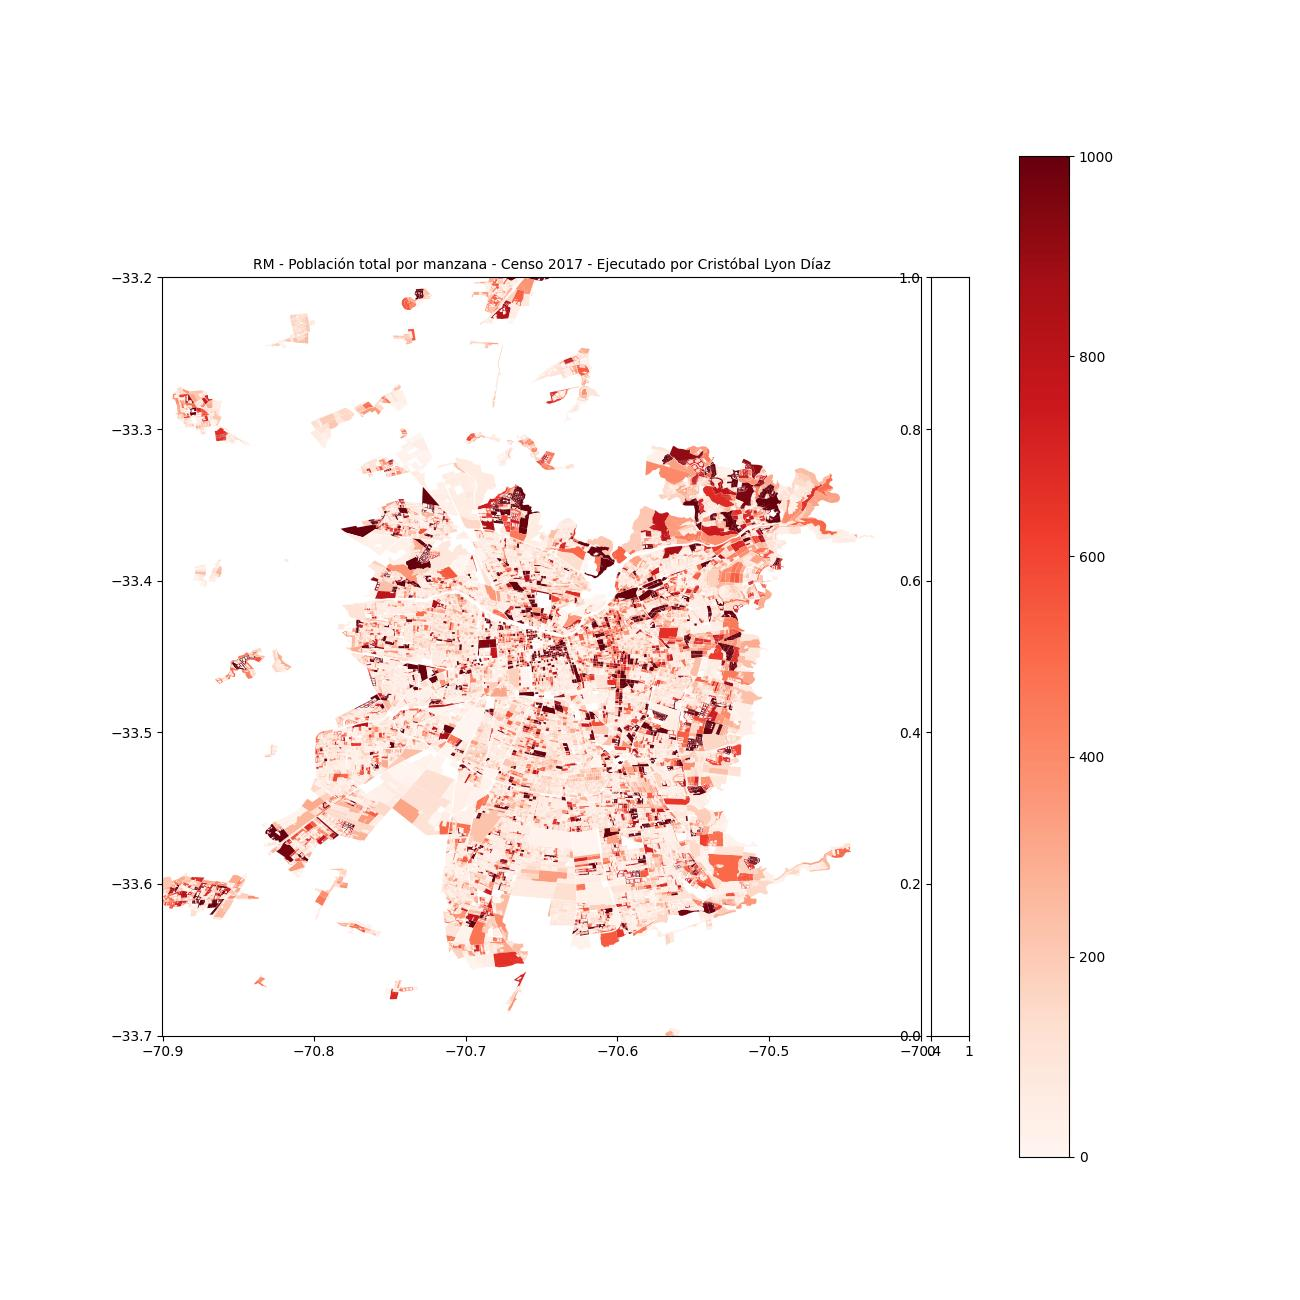
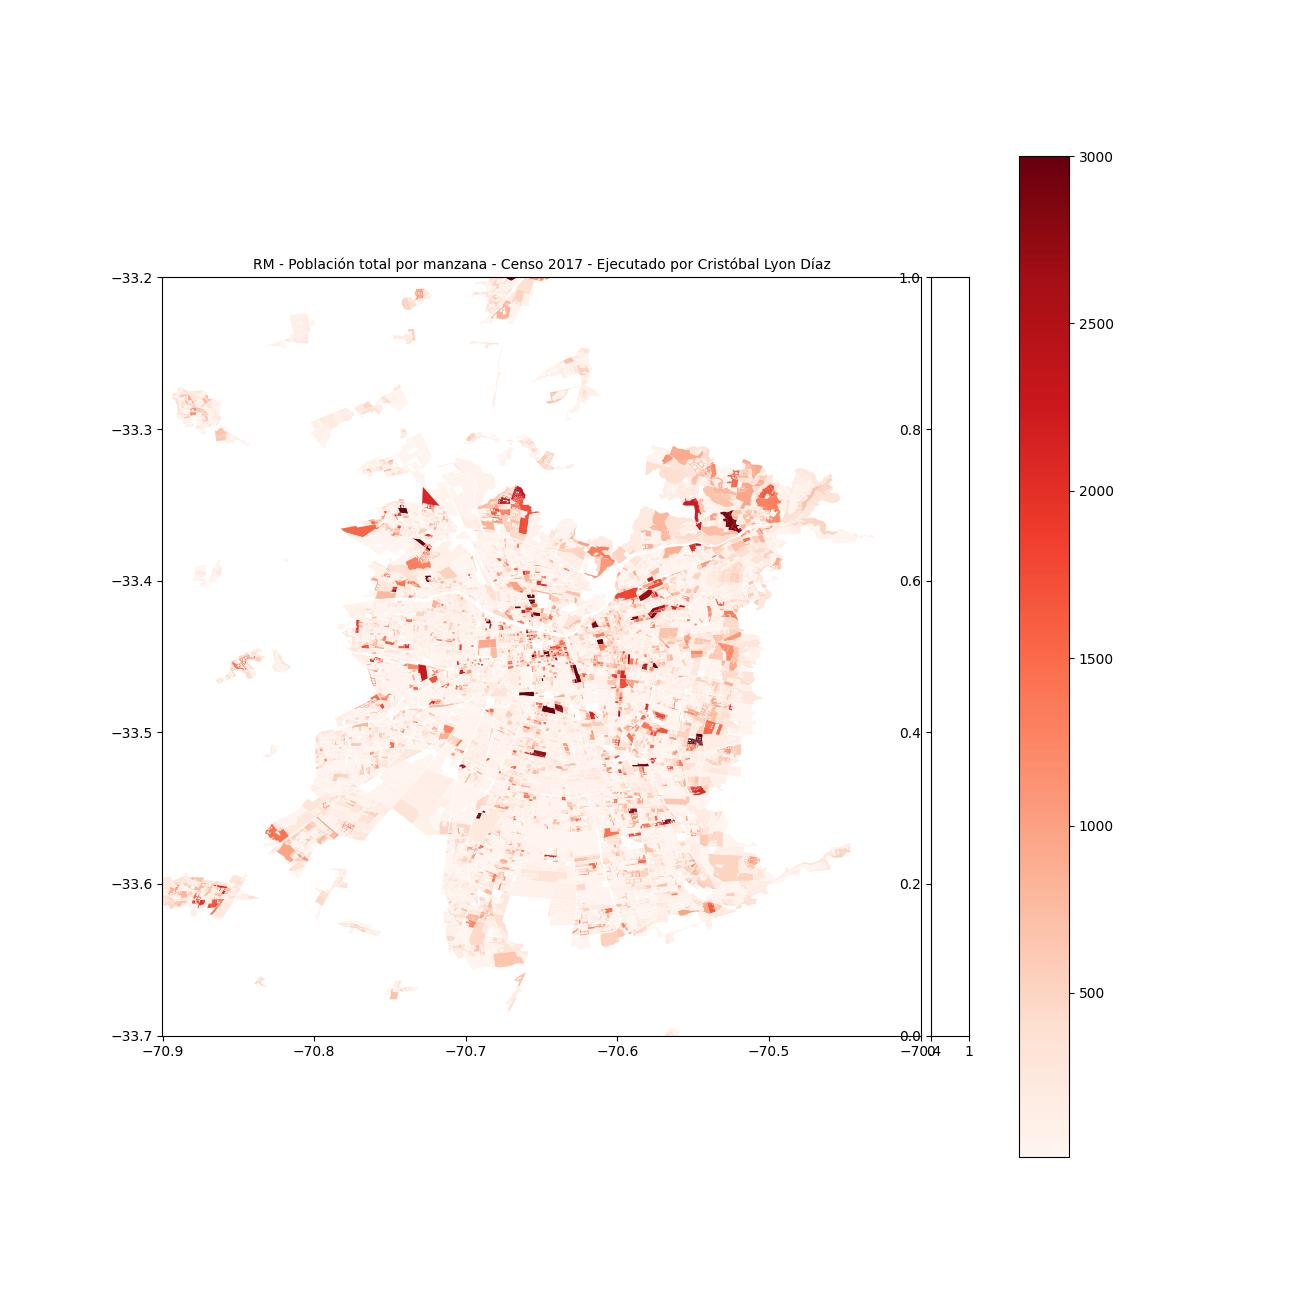
Final

diff --git a/Actividad 01/README.md b/Actividad 01/README.md
@@ -20,3 +20,8 @@ En este notebook Jupyter se encuentran las intrucciones y desarrollo de la activ
     - Se elabora un mapa de la RM con los datos y con el nombre del estudiante
 5. Cierre de la Actividad 01: Repositorio presonal
     - Indica la manera correcta de la entrega
+
+### Extra
+* Descripción de la Actividad extenso además de la descripción del repositorio (IMT2200-Cristobal-Lyon/Actividad 01)
+* Cambie el minimo y máximo de las comunas para que se viera con mayor claridad las cuadras de las comunas, especialmente diferenciar aquellas que estan más pobladas, ya que con los parametros originales habia muchas comunas en el tono máximo del color seleccionado
+* Elaboración de un README detallado sobre el ramo y demás en el repositorio general del ramo (IMT2200-Cristobal-Lyon)
